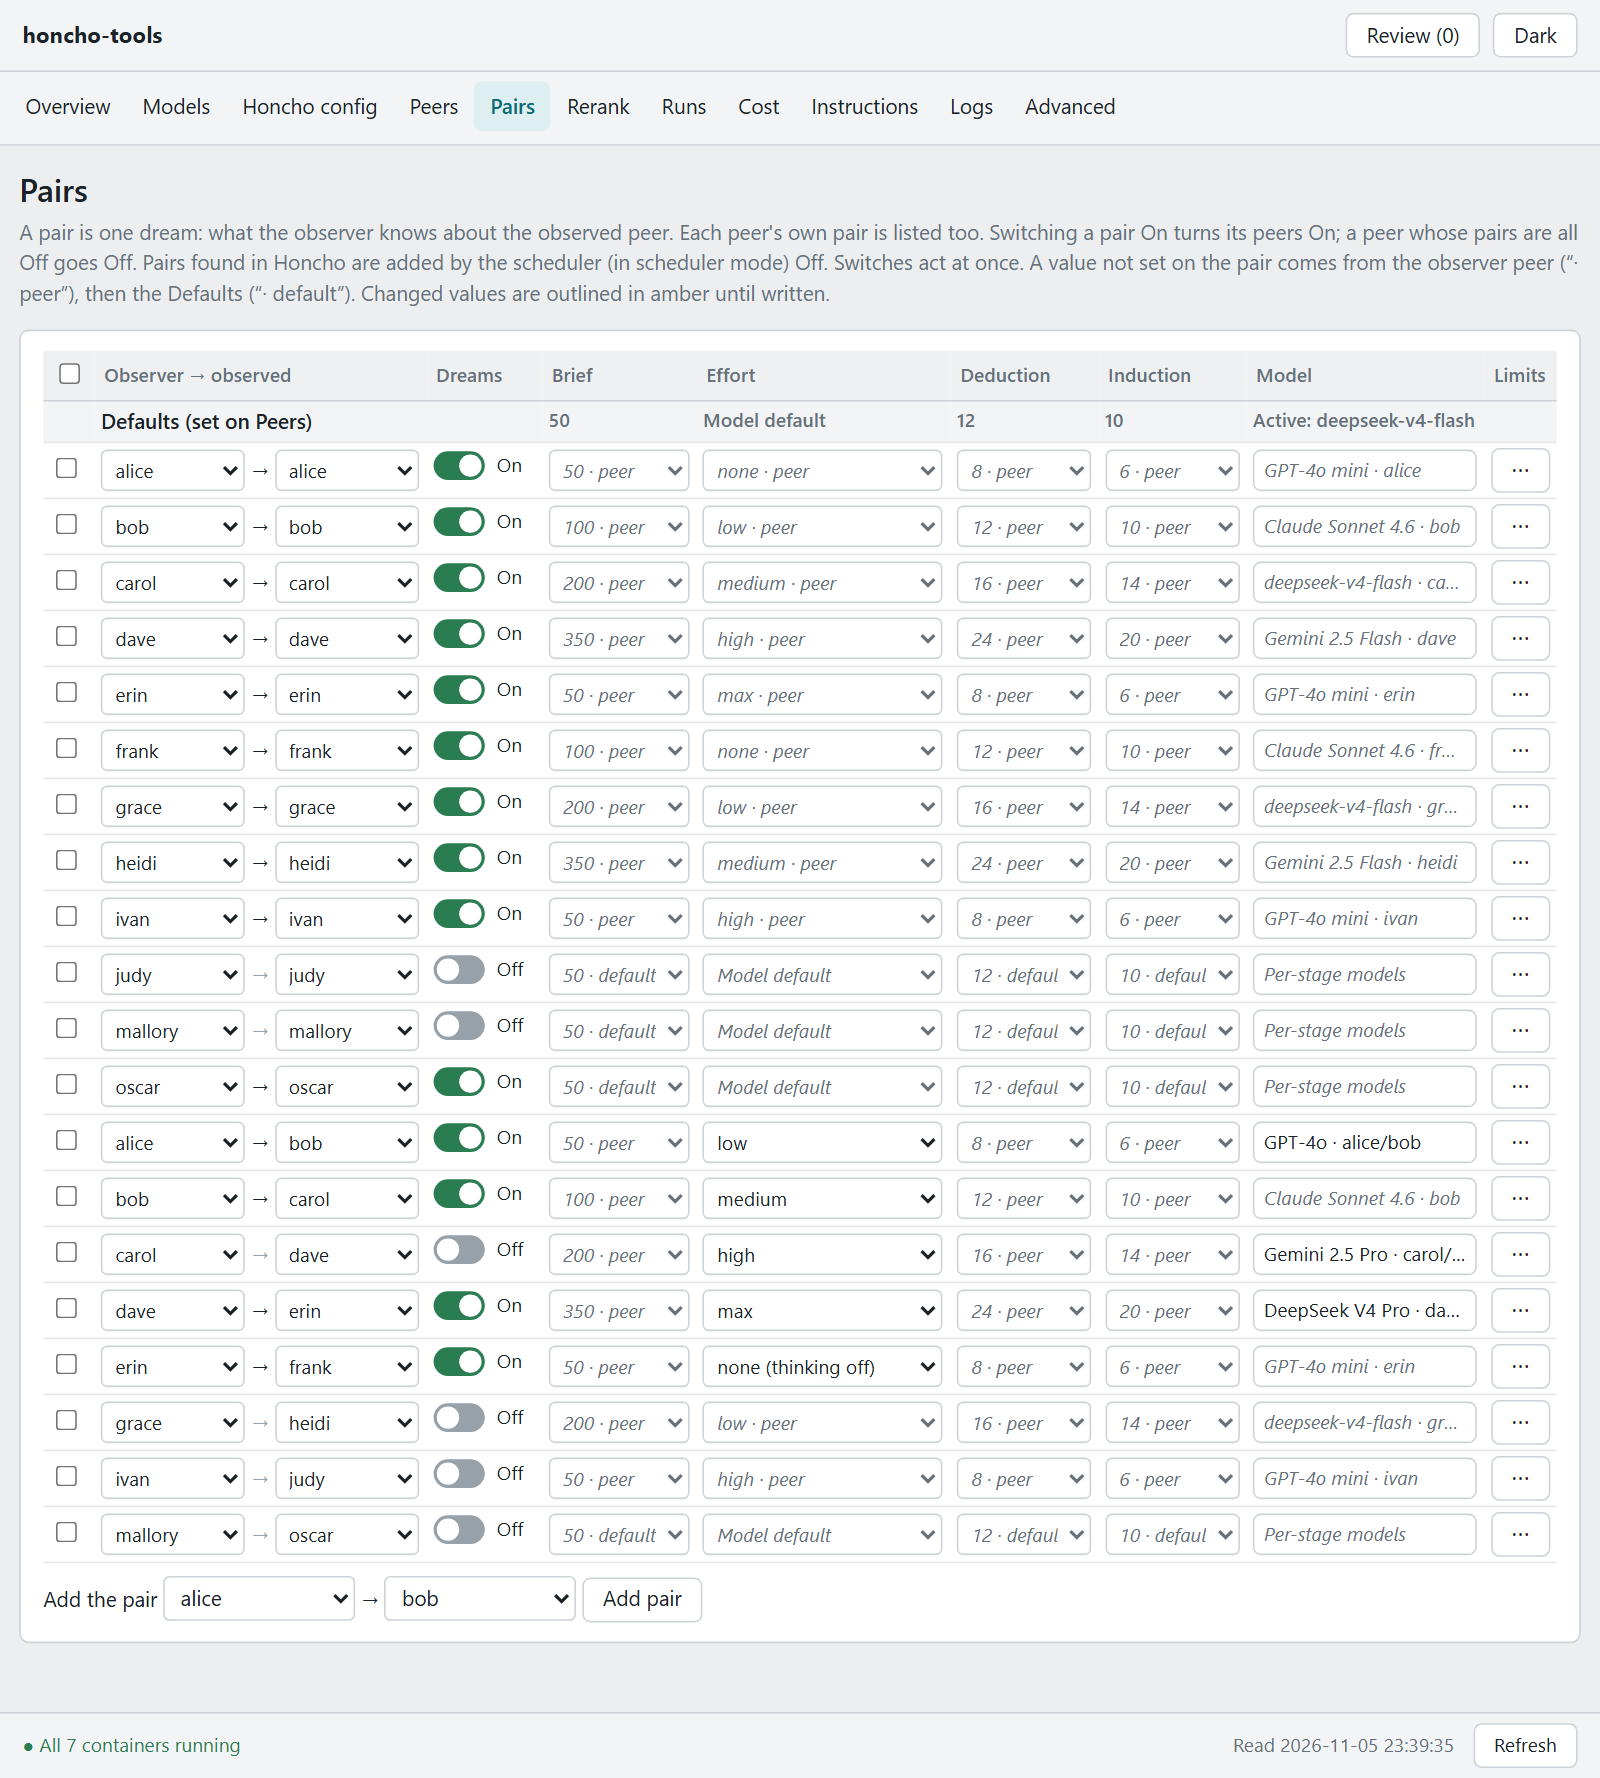
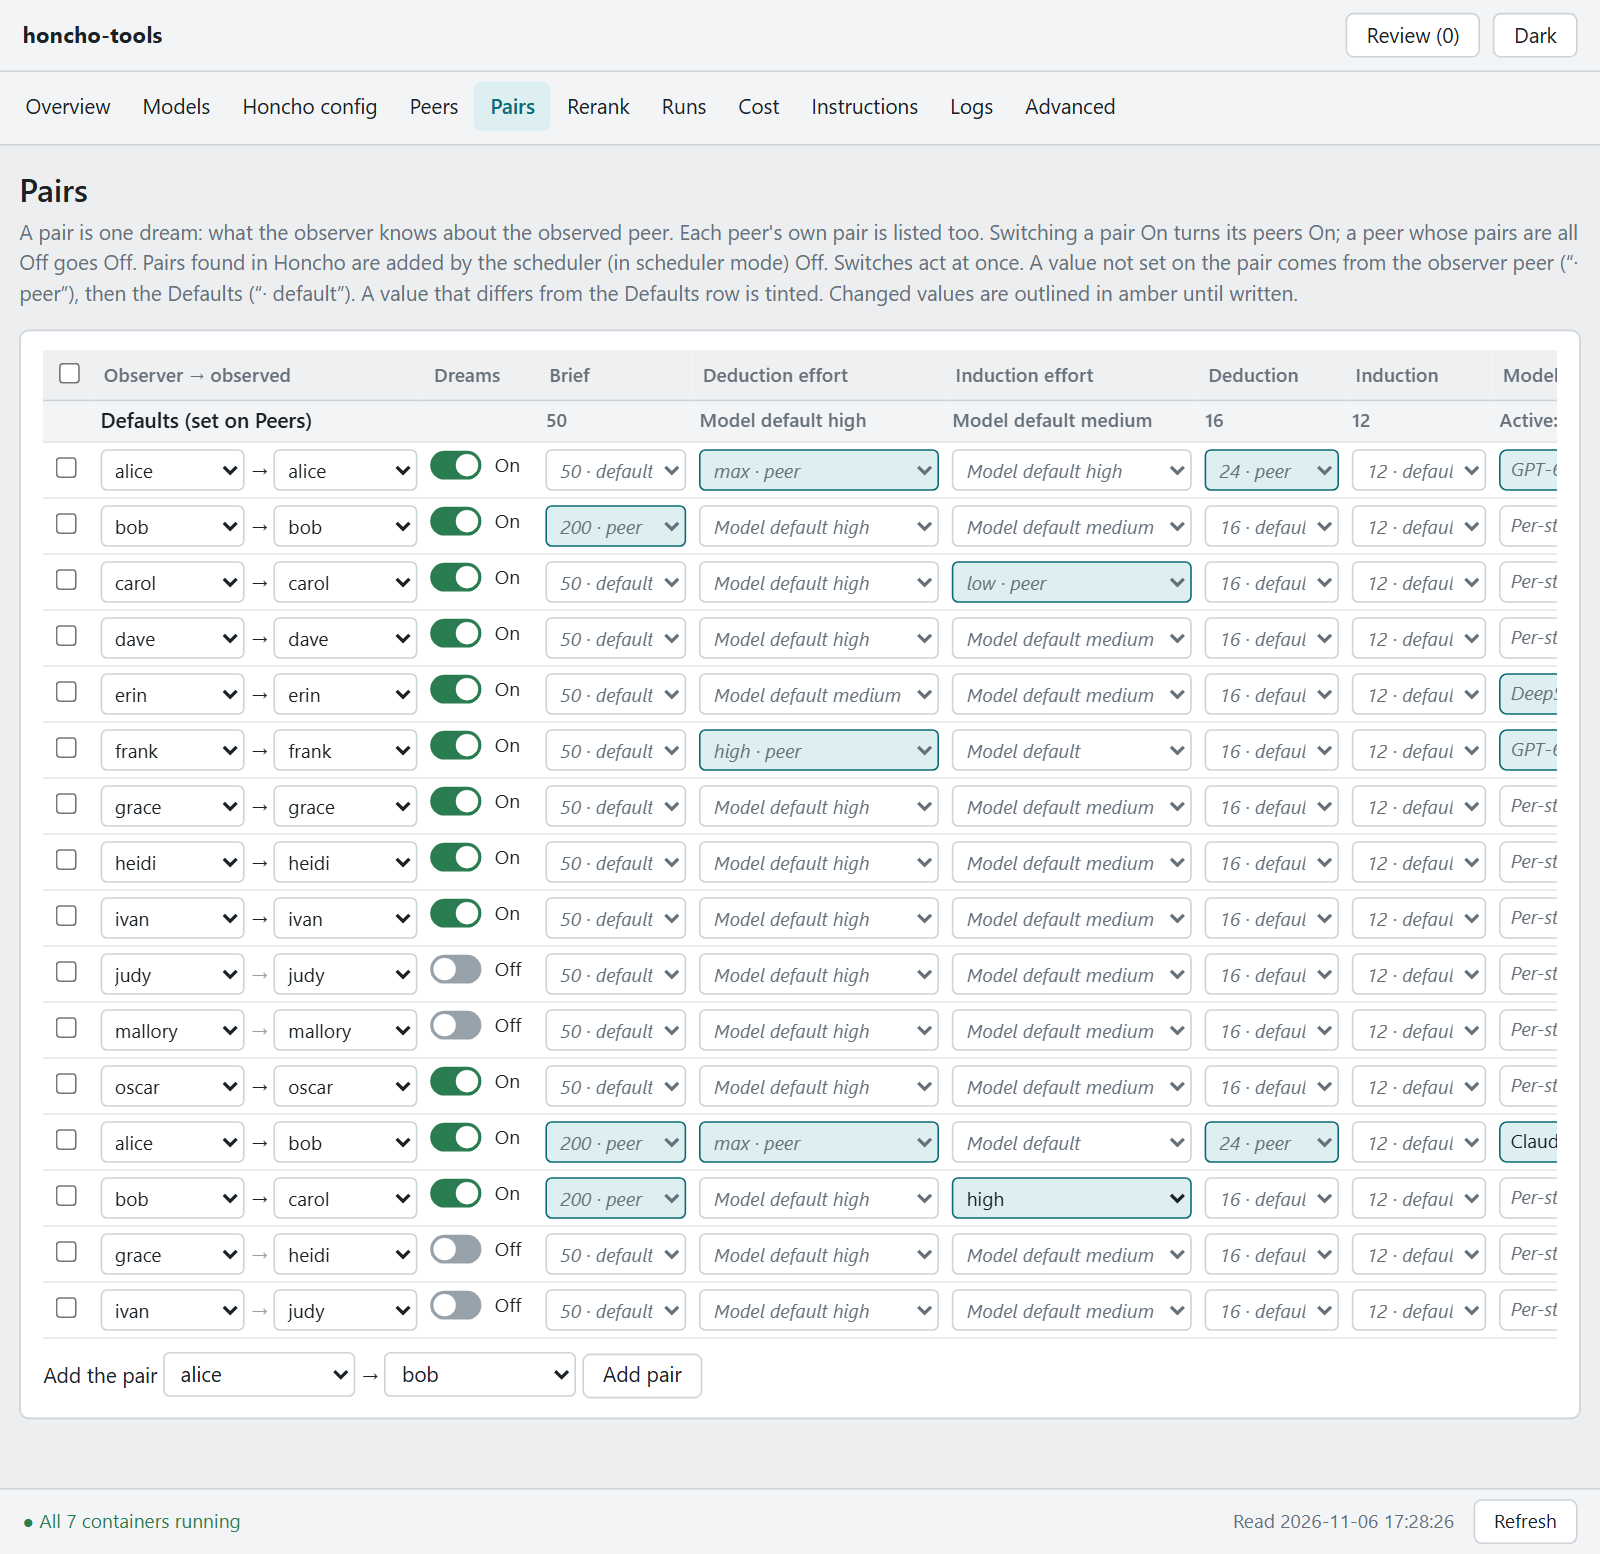
Tint values that differ from Defaults
Peers, Pairs and Rerank mark a value that differs from the Defaults row
with a light tint, including a value a pair takes from a peer.

diff --git a/src/dashboard/app/index.html b/src/dashboard/app/index.html
@@ -53,6 +53,7 @@ button:disabled { opacity:.5; cursor:default; }
 select, input[type=text], input[type=number] { font:inherit; height:28px; border:1px solid var(--line); border-radius:4px; background:var(--page); color:var(--ink); padding:0 6px; max-width:100%; }
 select:focus, input:focus, textarea:focus { outline:none; border-color:var(--accent); }
 select.inherit { color:var(--muted); font-style:italic; }
+select.differs, button.differs, input.differs { border-color:var(--accent); background:var(--accent-bg); }
 select.changed, button.changed, input.changed { border-color:var(--amber-edge) !important; background:var(--amber-bg) !important; }
 input.inherit::placeholder { color:var(--muted); font-style:italic; }
 .stats { display:grid; grid-template-columns:repeat(auto-fill,minmax(150px,1fr)); gap:10px; }
@@ -993,13 +994,19 @@ function changedField(kind, key, f) { return !same((rowBlock(kind, key) || {})[f
 const UNSET_MEANS = { "dream.write_window_iterations": "15% of rounds" };
 function tagOf(i) { return i ? (i.value == null ? "—" : String(i.value)) + " · " + i.src : "—"; }
 function markChanged(node, on) { if (on) node.classList.add("changed"); return node; }
+// A light tint for a value that is not the Defaults row's: the row's own, or on Pairs one it takes from a peer.
+function differsFromDefault(kind, own, inherited, base) {
+  const value = own ?? (inherited && inherited.src === "peer" ? inherited.value : null);
+  return kind !== "defaults" && value != null && !same(value, base ?? null);
+}
+function markDiffers(node, on) { if (on) node.classList.add("differs"); return node; }
 function cells(kind, key, onSet) {
   const block = rowBlock(kind, key) || {};
   const isDefaults = kind === "defaults";
   const inh = isDefaults ? {} : inheritedFor(kind, key);
   const tag = (f) => (!isDefaults && inh[f] ? tagOf(inh[f]) : EFFORT_STAGE[f] ? unsetEffort(f, kind, key) : "—");
   const effortCell = (f) => h("td", {}, ch(f, choice([{ value: "", label: tag(f) }].concat(EFFORTS.map(effortOption)), block[f] || "", (v) => onSet(f, v || null), { style: "width:150px" })));
-  const ch = (f, node) => markChanged(node, changedField(kind, key, f));
+  const ch = (f, node) => markDiffers(markChanged(node, changedField(kind, key, f)), differsFromDefault(kind, block[f], inh[f], S.settings.defaults[f]));
   return [
     h("td", {}, ch("brief", numberChoice(BRIEFS, block.brief, tag("brief"), (v) => onSet("brief", v), 88))),
     effortCell("deduction_effort"),
@@ -1044,7 +1051,8 @@ function modelButton(kind, key, onSet) {
   const own = block.backend;
   const display = dreamModelDisplay(kind, key);
   const button = h("button", { class: own ? "pick" : "pick inherit", title: display.title + "\nClick to choose an override.", onclick: () => openModelPicker(own, kind === "defaults" ? "Use stage models / fallback" : "Inherit", (ref) => onSet("backend", ref)) }, display.label);
-  return markChanged(button, changedField(kind, key, "backend"));
+  const override = dreamChain(kind, key).slice(0, -1).map(([chained]) => chained && chained.backend).find(Boolean);
+  return markDiffers(markChanged(button, changedField(kind, key, "backend")), differsFromDefault(kind, override, null, S.settings.defaults.backend));
 }
 function vendorsOf() { return [...new Set(dreamEntries().map((e) => e.vendor))]; }
 function openModelPicker(current, inheritLabel, onPick) {
@@ -1195,7 +1203,7 @@ function pagePeers() {
   const discovered = (S.peersApi.discovered || []).filter((n) => !(n in peers));
   return [
     h("h1", {}, "Peers"),
-    h("p", { class: "lead" }, "Dreams: a peer is On while any of its pairs (Pairs page) is On. On starts its own pair (the peer with itself); Off stops every pair with it, here and on Pairs. Switches act at once. “· default” values come from the Defaults row; pick a value to set it for one peer. Changed values are outlined in amber until written. ⋯ opens the dream limits for that row. Click a name for its peer card."),
+    h("p", { class: "lead" }, "Dreams: a peer is On while any of its pairs (Pairs page) is On. On starts its own pair (the peer with itself); Off stops every pair with it, here and on Pairs. Switches act at once. “· default” values come from the Defaults row; pick a value to set it for one peer. A value that differs from the Defaults row is tinted. Changed values are outlined in amber until written. ⋯ opens the dream limits for that row. Click a name for its peer card."),
     S.selected.peers.size ? bulkBar("peers", (k, f, v) => setBlock(peers, k, f, v)) : null,
     h("div", { class: "box" }, h("div", { class: "in tw" }, h("table", {},
       h("thead", {}, h("tr", {}, h("th", {}, selectAllBox("peers", keys)), h("th", {}, "Peer"), h("th", {}, "Dreams"), TABLE_HEAD.map((t) => h("th", {}, t)))),
@@ -1260,7 +1268,7 @@ function pagePairs() {
     : h("p", { class: "hint" }, "Pairs are made from the peers on the Peers page; none is listed yet.");
   return [
     h("h1", {}, "Pairs"),
-    h("p", { class: "lead" }, "A pair is one dream: what the observer knows about the observed peer. Each peer's own pair is listed too. Switching a pair On turns its peers On; a peer whose pairs are all Off goes Off. Pairs found in Honcho are added by the scheduler (in scheduler mode) Off. Switches act at once. A value not set on the pair comes from the observer peer (“· peer”), then the Defaults (“· default”). Changed values are outlined in amber until written."),
+    h("p", { class: "lead" }, "A pair is one dream: what the observer knows about the observed peer. Each peer's own pair is listed too. Switching a pair On turns its peers On; a peer whose pairs are all Off goes Off. Pairs found in Honcho are added by the scheduler (in scheduler mode) Off. Switches act at once. A value not set on the pair comes from the observer peer (“· peer”), then the Defaults (“· default”). A value that differs from the Defaults row is tinted. Changed values are outlined in amber until written."),
     S.settings.mode === "scheduler" ? null : h("p", { class: "bad" }, "Scheduling is off (Overview, Who starts dreams): Honcho starts dreams itself, and only a peer switched Off stops them. These pair switches decide which dreams run once this scheduler starts them; the scheduler also adds the pairs it finds in Honcho then."),
     S.selected.pairs.size ? bulkBar("pairs", (k, f, v) => setBlock(pairs, k, f, v)) : null,
     h("div", { class: "box" }, h("div", { class: "in" }, h("div", { class: "tw" }, h("table", {},
@@ -1378,7 +1386,8 @@ function rerankCells(kind, key) {
   const block = rerankBlock(kind, key), inh = rerankInherited(kind, key);
   const cells = RERANK_MAIN.map((f) => {
     const [, , , control] = RERANK.find((r) => r[0] === f);
-    return h("td", {}, markChanged(rerankControl(f, control, block[f], inh[f], (v) => setRerank(kind, key, f, v), f === "model" ? 150 : 112), rerankChanged(kind, key, f)));
+    const base = rerankBlock("defaults", null)[f] ?? (S.settings.rerank || {})[f];
+    return h("td", {}, markDiffers(markChanged(rerankControl(f, control, block[f], inh[f], (v) => setRerank(kind, key, f, v), f === "model" ? 150 : 112), rerankChanged(kind, key, f)), differsFromDefault(kind, block[f], inh[f], base)));
   });
   const set = RERANK_EXTRA.filter((f) => block[f] != null).length;
   const changed = RERANK_EXTRA.some((f) => rerankChanged(kind, key, f));

diff --git a/tests/test_models_ui.py b/tests/test_models_ui.py
@@ -354,6 +354,27 @@ assertSummary();
     assert result.returncode == 0, result.stderr
 
 
+def test_a_value_differing_from_defaults_is_marked():
+    node = shutil.which("node")
+    if not node:
+        pytest.skip("node is not installed")
+    source = (ROOT / "src/dashboard/app/index.html").read_text(encoding="utf-8")
+    functions = source[source.index("function differsFromDefault("):source.index("function markDiffers(")]
+    checks = """
+const assert = require('assert');
+const same = (a, b) => JSON.stringify(a) === JSON.stringify(b);
+assert.equal(differsFromDefault("peers", 20, null, 16), true);
+assert.equal(differsFromDefault("peers", 16, null, 16), false);
+assert.equal(differsFromDefault("peers", null, {value: 16, src: "default"}, 16), false);
+assert.equal(differsFromDefault("pairs", null, {value: 20, src: "peer"}, 16), true);
+assert.equal(differsFromDefault("pairs", null, {value: 16, src: "peer"}, 16), false);
+assert.equal(differsFromDefault("peers", "codex:gpt-6.1-sol", null, undefined), true);
+assert.equal(differsFromDefault("defaults", 20, null, 16), false);
+"""
+    result = subprocess.run([node, "-e", functions + checks], capture_output=True, text=True, timeout=10)
+    assert result.returncode == 0, result.stderr
+
+
 def test_model_pickers_name_the_route():
     node = shutil.which("node")
     if not node:

diff --git a/CHANGELOG.md b/CHANGELOG.md
@@ -11,6 +11,7 @@
 - `rates.json` prices every model in the catalogue: a new `embedding` table (OpenAI, Gemini, Voyage) and the OpenRouter models. Embeddings count in the cost totals and in each run's cost. Copy the new `src/config/rates.example.json` over your `rates.json`, keeping any prices of your own.
 - Model pickers: API and CLI routes are separate providers, such as OpenAI API and OpenAI CLI, and every model name ends in API or CLI. A CLI subscription could be mistaken for the same model on its paid API.
 - Model catalogue: the Codex CLI list now has every model Codex offers, in its order: GPT-6.1 Sol, GPT-6 Astra, GPT-6.1 Terra, GPT-6 Sol, GPT-6 Luna, GPT-5.6 Sol, GPT-5.6 Terra and GPT-5.6 Luna. Only three were listed. An existing `models.json` needs these entries added.
+- Peers, Pairs and Rerank: a value that differs from the Defaults row has a light tint, including a value a pair takes from a peer.
 
 ## v0.1.2 — 2026-11-06
 

diff --git a/docs/OPERATIONS.md b/docs/OPERATIONS.md
@@ -53,7 +53,7 @@ peers are listed and on.
 
 **Peers** and **Pairs** set, per row, the brief, the deduction and induction efforts, rounds, the dream model override and (behind ⋯) the six
 Honcho dream limits and the per-dream rerank keys. An empty field inherits (pair, observer, observed, defaults) and
-shows the inherited value faded; **Reset** clears a row's own values. The **Defaults** row is `defaults`.
+shows the inherited value faded, and a value that differs from the Defaults row is tinted; **Reset** clears a row's own values. The **Defaults** row is `defaults`.
 
 ## Models and effort
 
